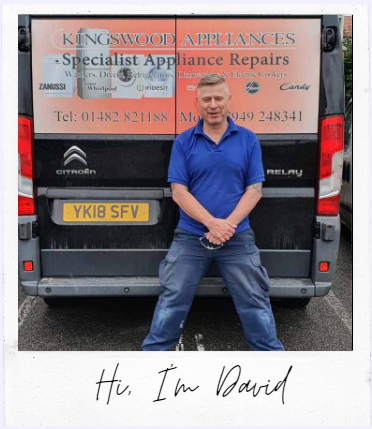
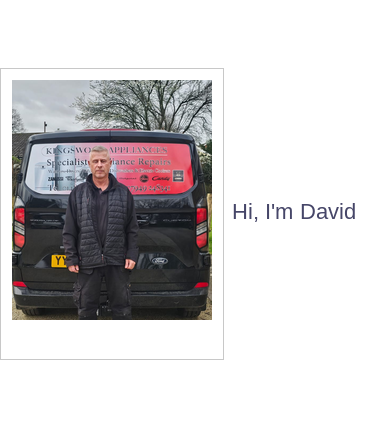
Replace David photo with new van image (polaroid style, Hi I'm David)

diff --git a/make-david.py b/make-david.py
@@ -1,0 +1,89 @@
+#!/usr/bin/env python3
+"""
+Recreate the david.png polaroid-style composite using the new van photo.
+Original david.png: 372x429px
+Layout: white polaroid frame around the photo, "Hi, I'm David" handwritten text to the right
+"""
+from PIL import Image, ImageDraw, ImageFont
+import os
+
+# Load the new van photo
+van = Image.open('/home/ubuntu/.openclaw/workspace/kingswood-site/images/dave-van-hero.jpg').convert('RGBA')
+
+# Target photo area: roughly 200x240 (portrait crop from the van image)
+photo_w, photo_h = 200, 240
+
+# The van photo is portrait (747x1600) - crop centre
+orig_w, orig_h = van.size
+# Crop to a portrait that shows Dave and the van well
+# Dave is in the centre of the image, crop from top portion
+crop_ratio = photo_w / photo_h
+img_ratio = orig_w / orig_h
+if img_ratio > crop_ratio:
+    # image is wider - crop sides
+    new_w = int(orig_h * crop_ratio)
+    left = (orig_w - new_w) // 2
+    van_crop = van.crop((left, 0, left + new_w, orig_h))
+else:
+    # image is taller - crop top portion to show Dave prominently
+    new_h = int(orig_w / crop_ratio)
+    # Dave is in upper-middle area
+    top = int(orig_h * 0.1)
+    van_crop = van.crop((0, top, orig_w, top + new_h))
+
+van_photo = van_crop.resize((photo_w, photo_h), Image.LANCZOS)
+
+# Polaroid border: white surround
+border_top = 12
+border_sides = 12
+border_bottom = 40  # extra bottom for polaroid look
+
+polaroid_w = photo_w + border_sides * 2
+polaroid_h = photo_h + border_top + border_bottom
+
+polaroid = Image.new('RGBA', (polaroid_w, polaroid_h), (255, 255, 255, 255))
+polaroid.paste(van_photo, (border_sides, border_top))
+
+# Add slight shadow/border on polaroid
+draw_p = ImageDraw.Draw(polaroid)
+draw_p.rectangle([0, 0, polaroid_w-1, polaroid_h-1], outline=(200, 200, 200, 255), width=1)
+
+# Now create the full canvas matching original 372x429
+canvas_w, canvas_h = 372, 429
+canvas = Image.new('RGBA', (canvas_w, canvas_h), (0, 0, 0, 0))
+
+# Place polaroid on left side, vertically centred
+pol_x = 0
+pol_y = (canvas_h - polaroid_h) // 2
+canvas.paste(polaroid, (pol_x, pol_y), polaroid)
+
+# Add "Hi, I'm David" text to the right of the polaroid
+draw = ImageDraw.Draw(canvas)
+
+# Try to use a cursive/handwriting-style font, fallback to default
+font_paths = [
+    '/usr/share/fonts/truetype/dejavu/DejaVuSans-Oblique.ttf',
+    '/usr/share/fonts/truetype/liberation/LiberationSans-Regular.ttf',
+    '/usr/share/fonts/truetype/freefont/FreeSansOblique.ttf',
+]
+font = None
+for fp in font_paths:
+    if os.path.exists(fp):
+        try:
+            font = ImageFont.truetype(fp, 22)
+            break
+        except:
+            pass
+if font is None:
+    font = ImageFont.load_default()
+
+# Text position: to the right of polaroid, vertically centred
+text_x = polaroid_w + 8
+text_y = canvas_h // 2 - 15
+# Draw in dark navy/grey to match the original
+draw.text((text_x, text_y), "Hi, I'm David", font=font, fill=(40, 40, 80, 220))
+
+# Save
+out_path = '/home/ubuntu/.openclaw/workspace/kingswood-site/images/david.png'
+canvas.save(out_path, 'PNG')
+print(f'Saved: {out_path}, size: {canvas.size}')
